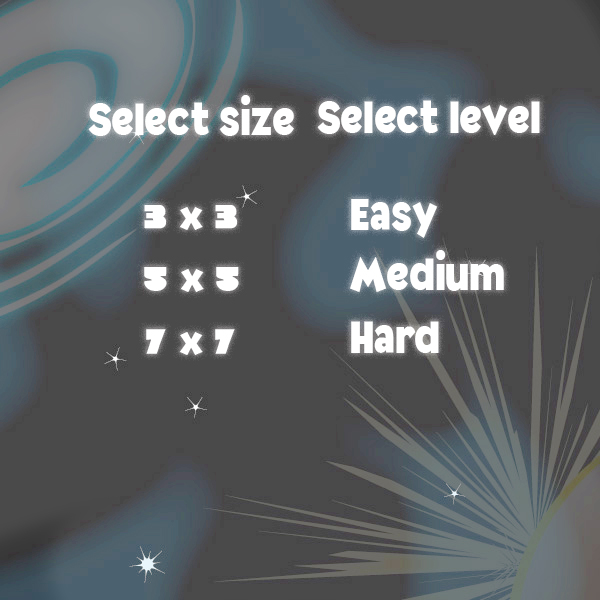
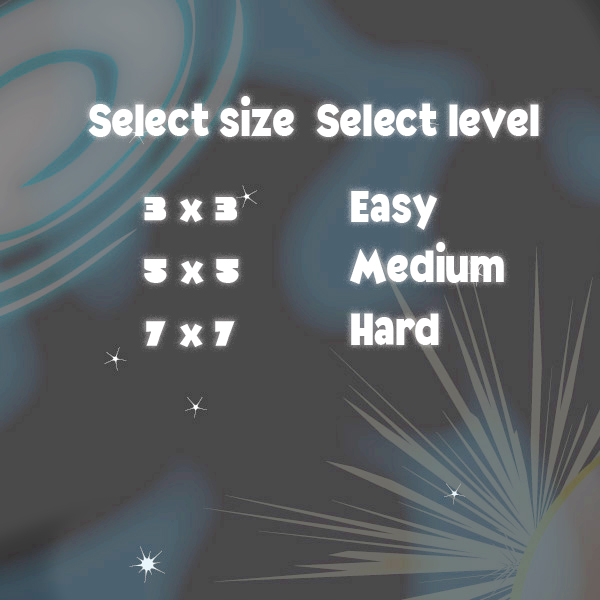
add medium bot & settings

diff --git a/src/tictactoe/PvMMenu.java b/src/tictactoe/PvMMenu.java
@@ -79,7 +79,7 @@ public class PvMMenu extends JPanel {
         c.fill = GridBagConstraints.NONE;
         c.gridx = 1;
         c.gridy = 2;
-        c.insets = new Insets(20, -70, 40, 30);
+        c.insets = new Insets(10, -70, 40, 30);
         c.anchor = GridBagConstraints.WEST;
         add(three, c);
         selectSize.add(three);
@@ -112,7 +112,7 @@ public class PvMMenu extends JPanel {
         c.fill = GridBagConstraints.NONE;
         c.gridx = 2;
         c.gridy = 2;
-        c.insets = new Insets(20, 150, 40, 0);
+        c.insets = new Insets(10, 150, 40, 0);
         c.anchor = GridBagConstraints.WEST;
         add(easy, c);
         selectDifficulty.add(easy);
